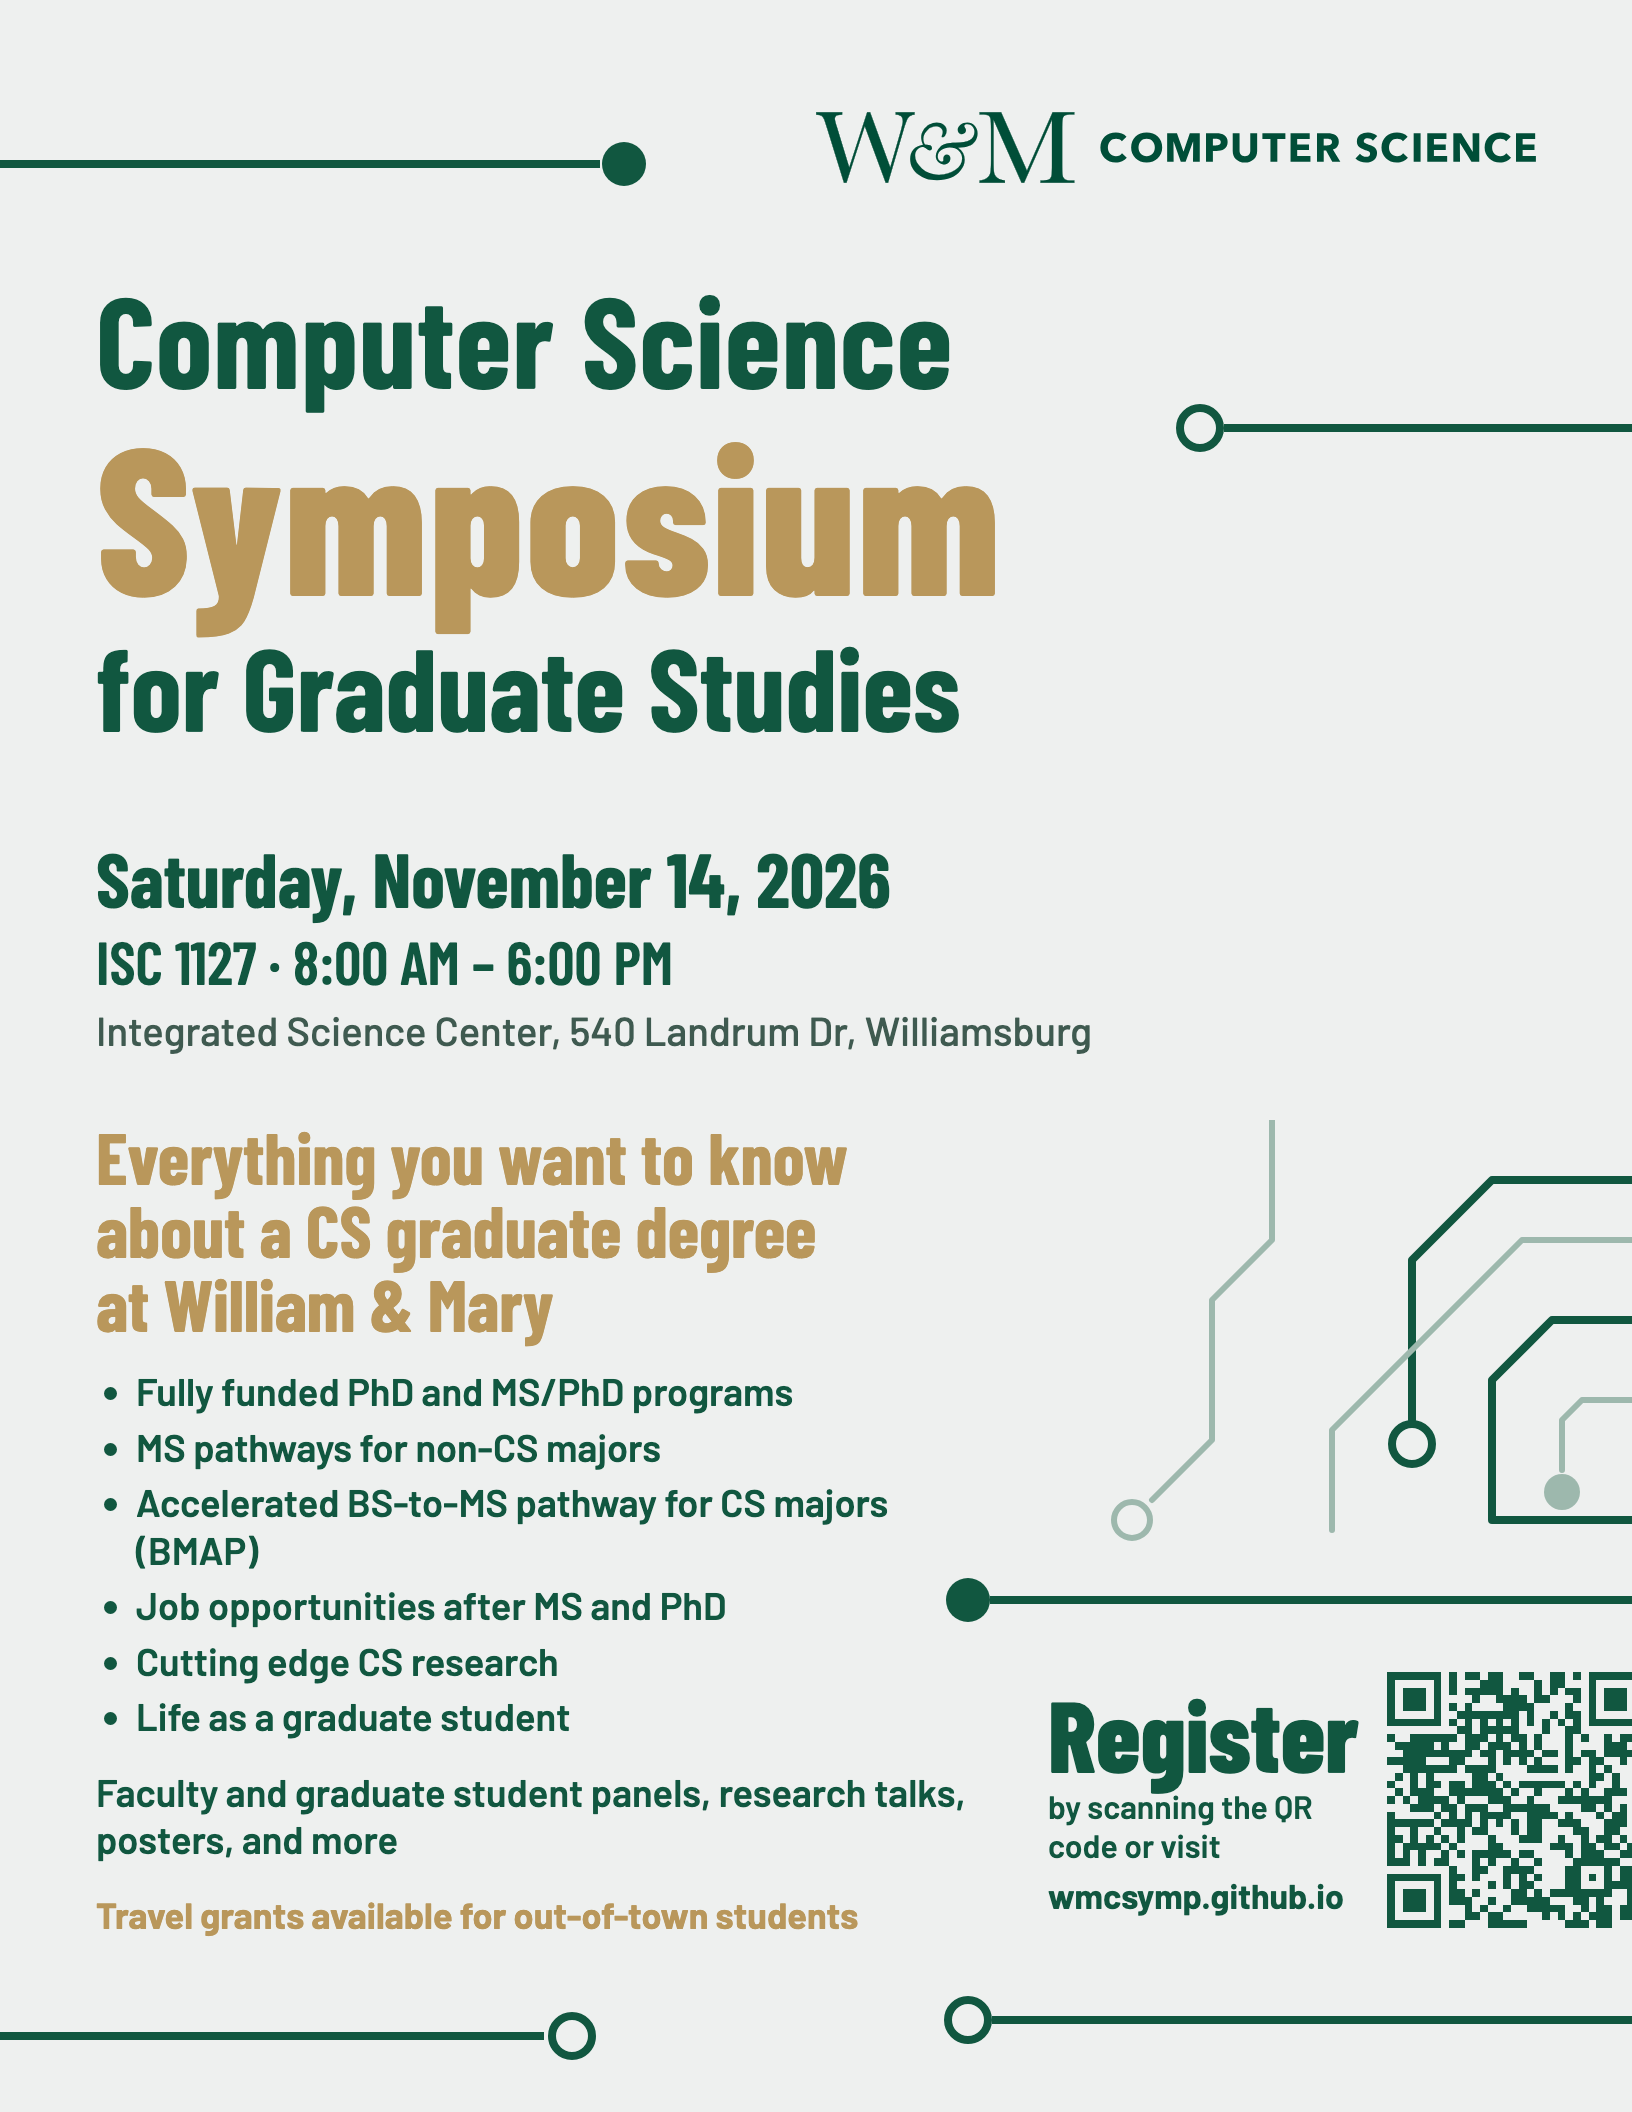
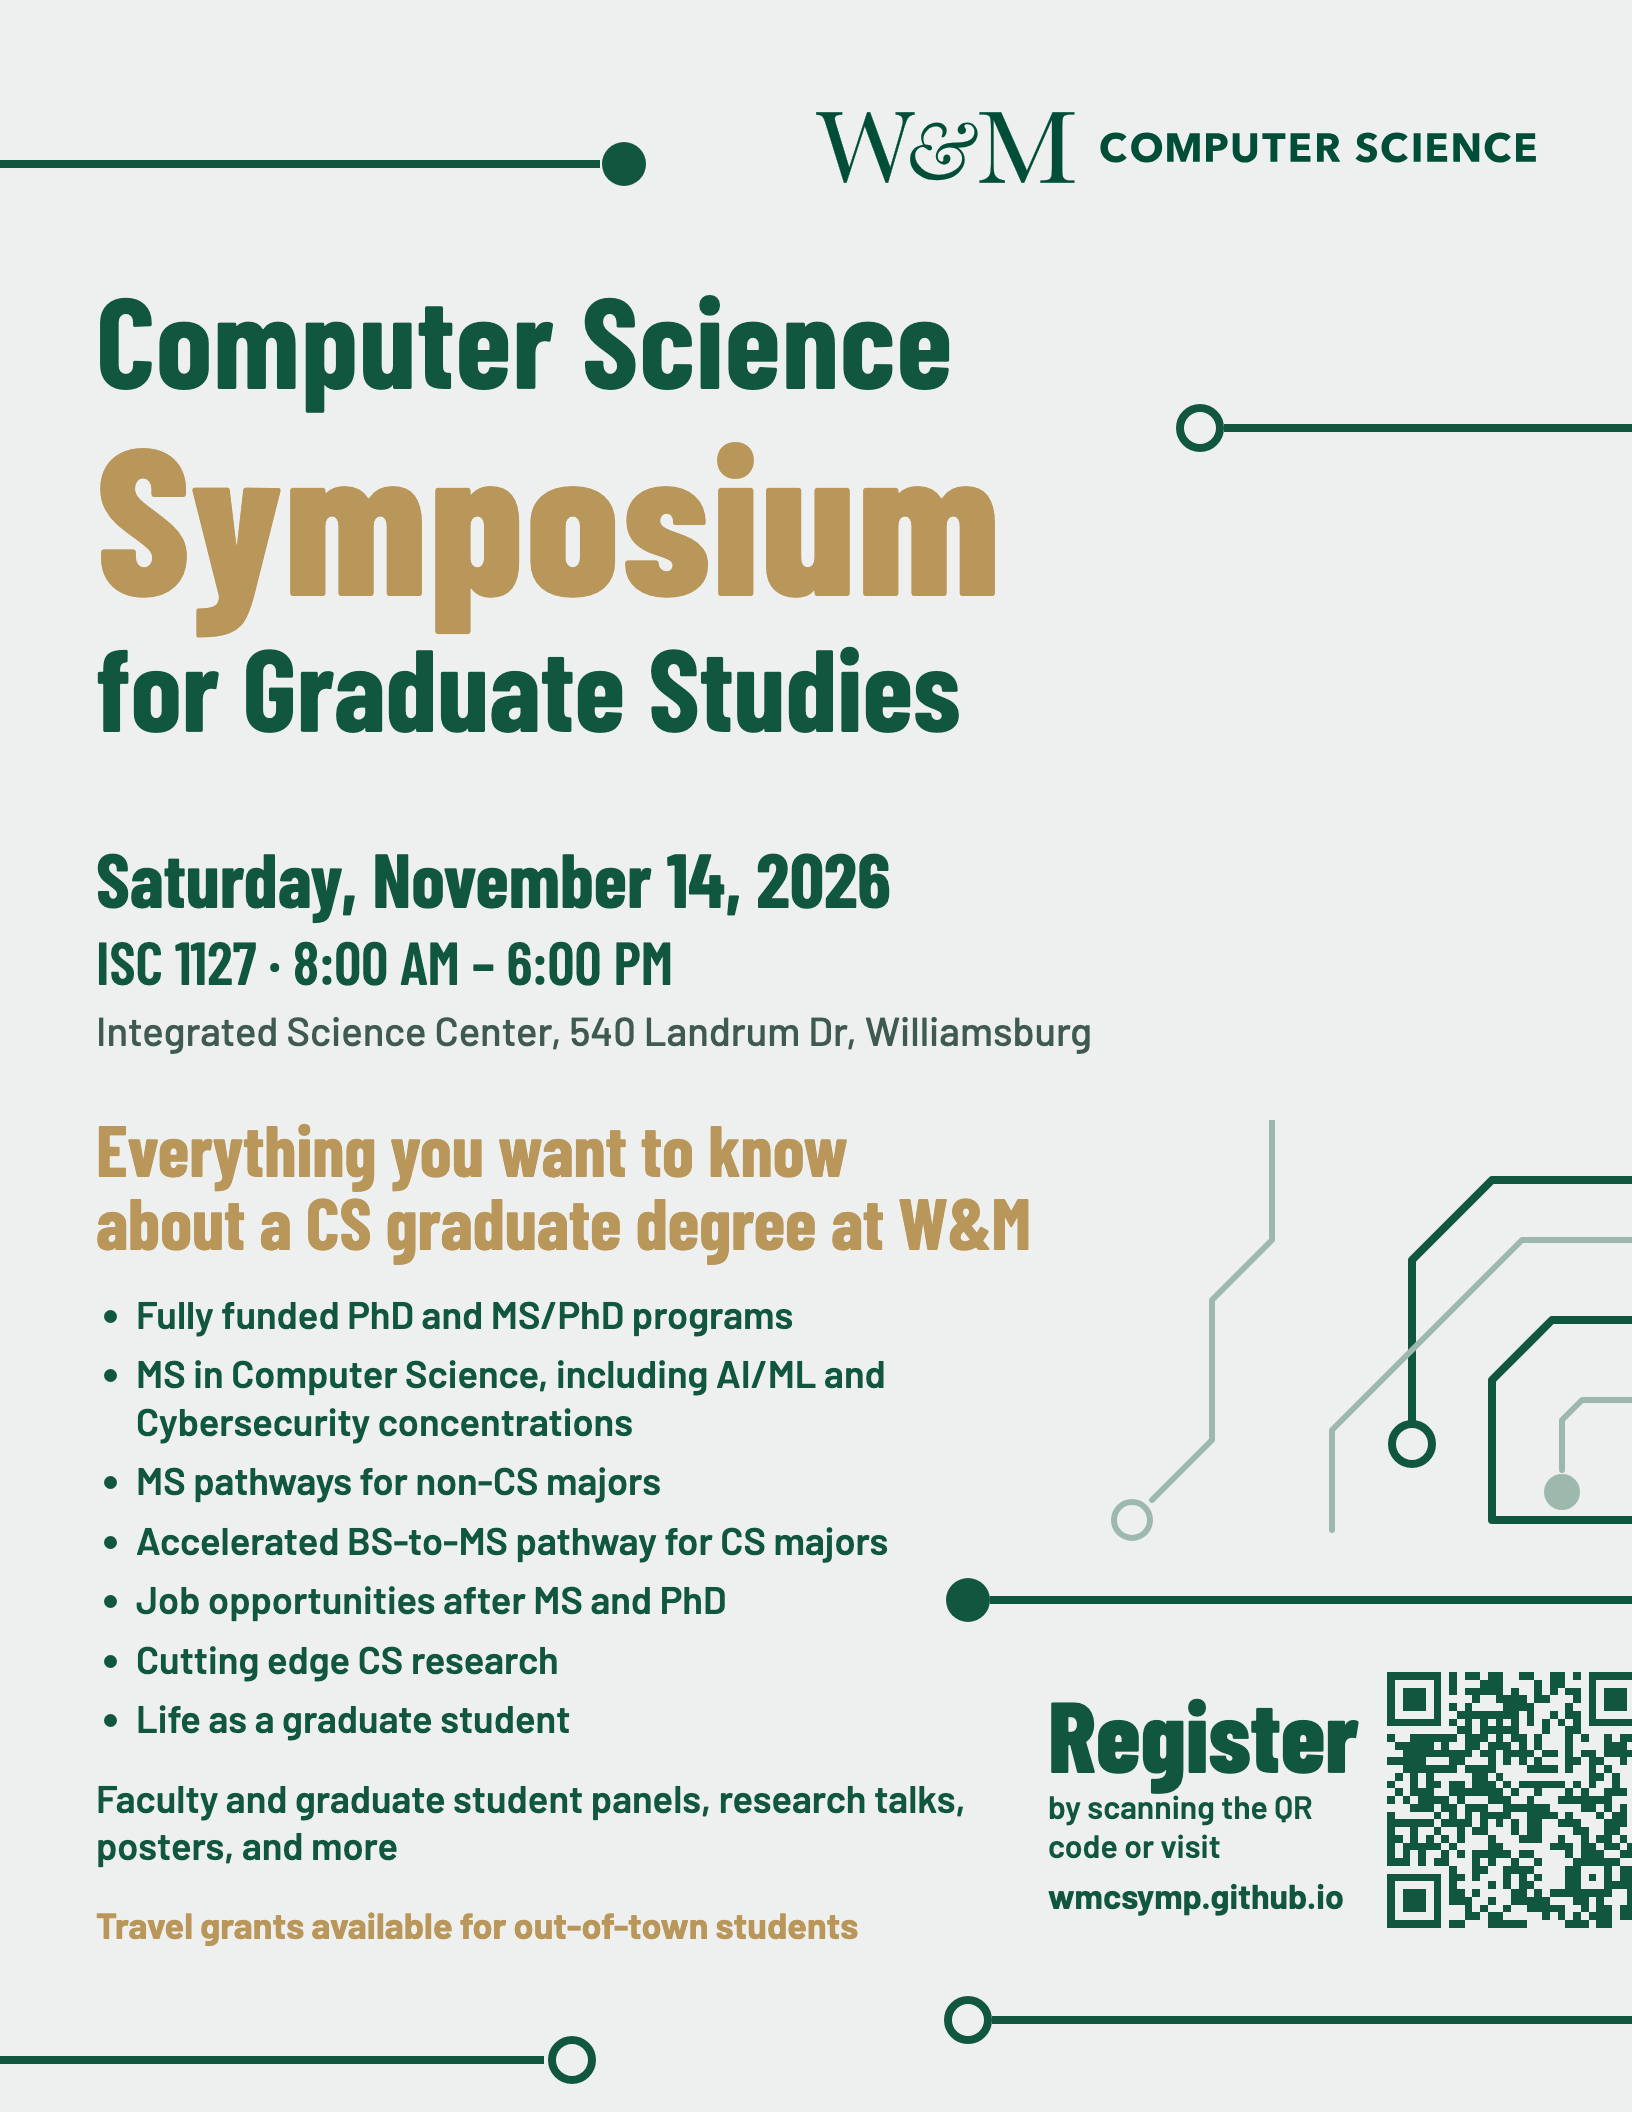
Add MS concentrations, update flyer

Changed region(s): [[0.0, 0.5312, 0.6562, 1.0]]

diff --git a/index.html b/index.html
@@ -109,8 +109,9 @@
 
                             <ul class="reg_list">
                                 <li>Funded PhD and MS/PhD degrees</li>
+                                <li>MS in Computer Science, including <a href="https://cdsp.wm.edu/computerscience/graduate/" target="_blank">AI/ML and Cybersecurity concentrations</a></li>
                                 <li>MS pathways for non-CS Majors</li>
-                                <li>Accelerated BS-to-MS pathway for CS majors (BMAP)</li>
+                                <li>Accelerated BS-to-MS pathway for CS majors</li>
                                 <li>Job Opportunities after an MS or PhD in CS</li>
                                 <li>Cutting edge CS Research</li>
                                 <li>Life as a Graduate student at W&M</li>
